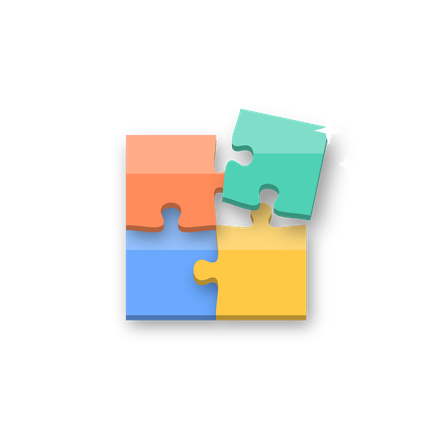
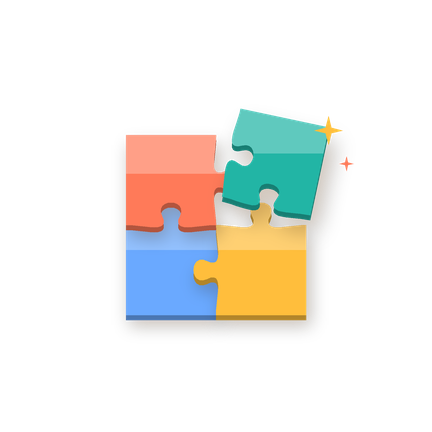
Own warm light identity + audit fixes
Look (clearly different from Bloxo's dark neon): cream paper background
with faint scattered jigsaw pieces, a linen puzzle mat in a white frame,
white pill buttons on soft warm shadows, ink-blue text, coral and teal
accents. Logo, icons, store graphics and boot splash redrawn to match.

Audit fixes:
- Replaying the same picture and size pays a small replay reward
  (no more farming 27 coins every 30 s on a 9-piece puzzle).
- Peek can't be bought again while it is still showing.
- A drag cut off by a call/home button (focus lost) returns the piece.
- Starting a gallery puzzle no longer wipes an unfinished level: it is
  parked and comes back with its pieces.
- Tray pieces fill their slot on big puzzles (easy to see and grab).
Tests added for each fix.

diff --git a/tools/make_art.py b/tools/make_art.py
@@ -25,13 +25,15 @@ ROOT = Path(__file__).resolve().parent.parent
 IMG = ROOT / "assets" / "images"
 FONT = ROOT / "assets" / "fonts" / "Fredoka.ttf"
 
-BG_TOP = (19, 32, 51)
-BG_BOTTOM = (31, 65, 80)
-CREAM = (255, 246, 236)
-CORAL = (255, 140, 90)
-MINT = (79, 209, 181)
-GOLD = (255, 200, 69)
+# Puzzloom's warm, light identity (same colors as ui/ui_kit.gd).
+BG_TOP = (255, 247, 238)  # cream paper
+BG_BOTTOM = (251, 225, 204)  # warm peach
+INK = (46, 58, 75)
+CORAL = (255, 122, 89)
+MINT = (34, 181, 165)  # teal
+GOLD = (255, 190, 60)
 SKY = (106, 169, 255)
+SHADOW = (115, 72, 30)
 SS = 4  # supersampling for smooth edges
 
 
@@ -97,7 +99,7 @@ def draw_piece(base, pts, color, shadow=True, lift=0.0):
     if shadow:
         sh = Image.new("RGBA", base.size, (0, 0, 0, 0))
         off = 10 * SS + lift
-        ImageDraw.Draw(sh).polygon([(px + off * 0.4, py + off) for px, py in pts], fill=(0, 0, 0, 110))
+        ImageDraw.Draw(sh).polygon([(px + off * 0.4, py + off) for px, py in pts], fill=SHADOW + (80,))
         base.alpha_composite(sh.filter(ImageFilter.GaussianBlur(8 * SS + lift * 0.3)))
     layer = Image.new("RGBA", base.size, (0, 0, 0, 0))
     d = ImageDraw.Draw(layer)
@@ -143,8 +145,8 @@ def mark(size, lifted=True):
         c = (ox + cell * 1.5, oy + cell * 0.5)
         tr = [(px + cell * 0.16, py - cell * 0.2) for px, py in rotate(tr, c, 12)]
         draw_piece(img, tr, MINT, lift=6 * SS)
-        sparkle(img, ox + cell * 2.25, oy - cell * 0.05, cell * 0.16)
-        sparkle(img, ox + cell * 2.45, oy + cell * 0.32, cell * 0.08)
+        sparkle(img, ox + cell * 2.25, oy - cell * 0.05, cell * 0.16, GOLD)
+        sparkle(img, ox + cell * 2.45, oy + cell * 0.32, cell * 0.08, CORAL)
     else:
         draw_piece(img, tr, MINT)
     return img
@@ -175,12 +177,12 @@ def font(px, weight=650):
 
 
 def wordmark(d, x, y, px):
-    """'Puzz' in cream + 'loom' in coral, with a soft drop shadow."""
+    """'Puzz' in ink + 'loom' in coral, with a soft warm shadow."""
     f = font(px)
-    parts = [("Puzz", CREAM), ("loom", CORAL)]
+    parts = [("Puzz", INK), ("loom", CORAL)]
     cx = x
     for text, color in parts:
-        d.text((cx + px * 0.03, y + px * 0.06), text, font=f, fill=(0, 0, 0, 90))
+        d.text((cx + px * 0.02, y + px * 0.045), text, font=f, fill=SHADOW + (45,))
         d.text((cx, y), text, font=f, fill=color + (255,))
         cx += d.textlength(text, font=f)
     return cx - x
@@ -231,10 +233,10 @@ def main():
         ImageDraw.Draw(mask).polygon(pts, fill=255)
         tile = Image.new("RGBA", pic.size, (0, 0, 0, 0))
         tile.paste(pic, (0, 0), mask)
-        ImageDraw.Draw(tile).line(pts + [pts[0]], fill=(255, 255, 255, 150), width=2 * SS)
+        ImageDraw.Draw(tile).line(pts + [pts[0]], fill=(255, 255, 255, 220), width=3 * SS)
         tile = tile.rotate(rot, resample=Image.Resampling.BICUBIC, expand=True)
         sh = Image.new("RGBA", tile.size, (0, 0, 0, 0))
-        sh.paste((0, 0, 0, 120), (0, 0), tile.split()[3])
+        sh.paste(SHADOW + (90,), (0, 0), tile.split()[3])
         fgx.alpha_composite(sh.filter(ImageFilter.GaussianBlur(10 * SS)), (sx * SS + 10 * SS, sy * SS + 16 * SS))
         fgx.alpha_composite(tile, (sx * SS, sy * SS))
     lg = Image.open(IMG / "logo.png").convert("RGBA").resize((660 * SS, 231 * SS), Image.Resampling.LANCZOS)
